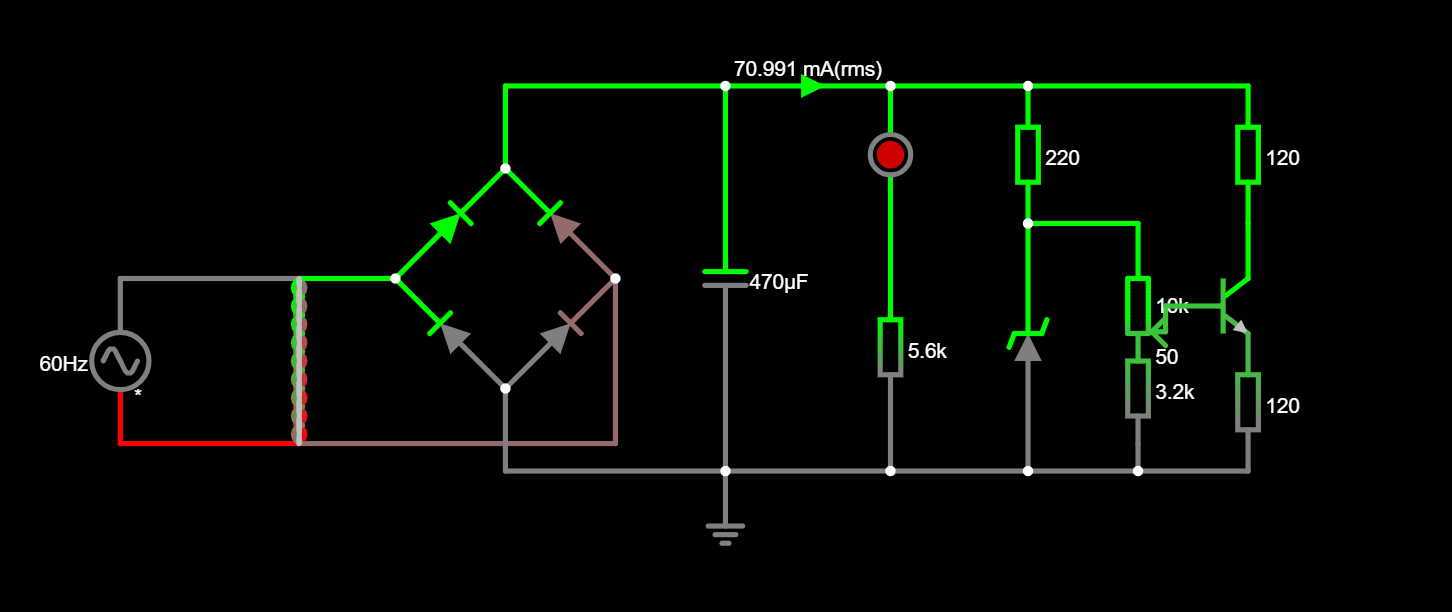
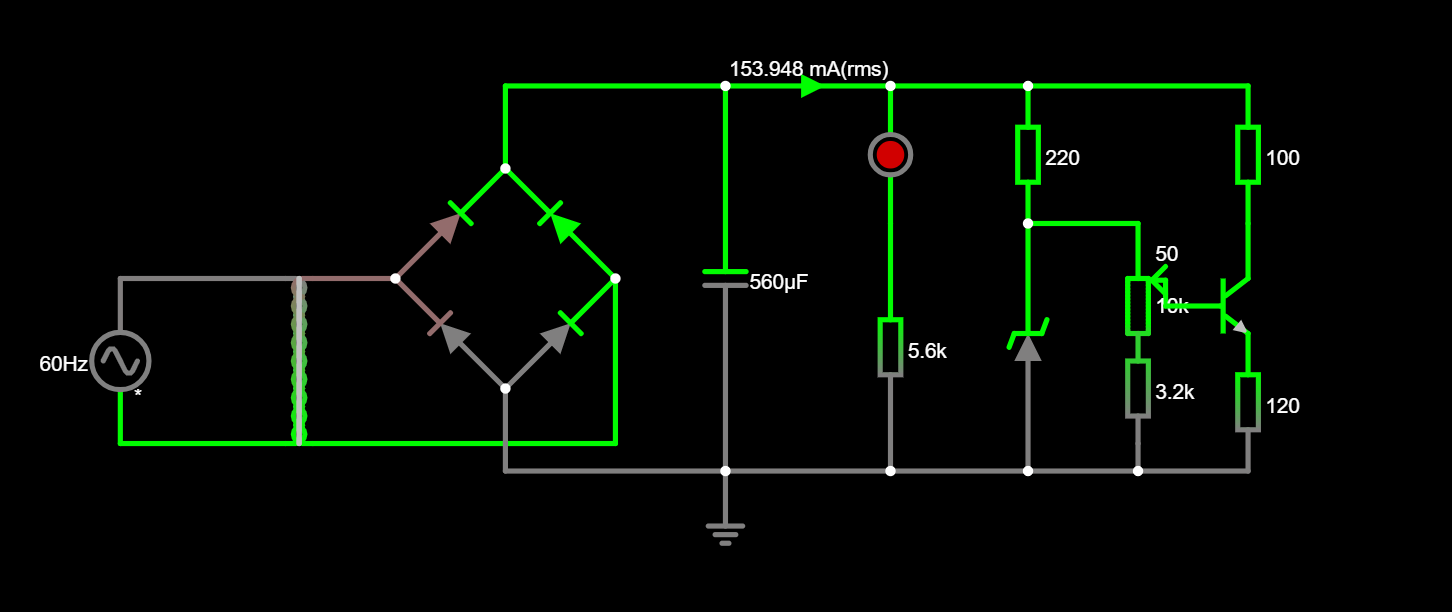
update

diff --git a/README.md b/README.md
@@ -9,11 +9,11 @@ Projeto de uma Fonte de Tensão ajustável entre 3V a 12V com capacidade de 100m
 | Quantidade | Componentes        | Valor Unit. (R$) |
 |------------|--------------------|------------------|
 | 4x         | Diodo 1N4007       |      R$ 0,19     |
-| 1          | Capacitor 470uF    |      R$ 2,72     |
+| 1          | Capacitor 560uF    |      R$ 2,72     |
 | 1          | Led Vermelho 5mm   |      R$ 0,49     |
-| 1          | Resistor 100Ω      |      R$ 0,07     |
 | 1          | Resistor 120Ω      |      R$ 0,07     |
-| 1          | Resistor 470Ω      |      R$ 0,07     |
+| 1          | Resistor 120Ω      |      R$ 0,07     |
+| 1          | Resistor 220Ω      |      R$ 0,07     |
 | 1          | Resistor 5.6kΩ     |      R$ 0,07     |
 | 1          | Resistor 3.2kΩ     |      R$ 0,07     |
 | 1          | Potenciómetro 10k  |      R$ 6,79     |
@@ -39,7 +39,7 @@ A protoboard e o transformador foi adquirida no laboratório com o orientador da
 <img src="./imagens/img_protoboard.jpeg">
 
 ### Vídeo no Youtube
-[Link nada suspeito](https://youtu.be/eNDYn4dvQzQ)
+[Link do vídeo]
 
 ## Cálculos
 ### Razão do Transformador
@@ -86,11 +86,11 @@ $$ i_{LED} = \frac{V_{máxs} - V_{LED}}{R_{LED}} = \frac{24,05V - 1,7V}{5600 \ \
 
 2. Corrente do diodo zener:
 
-$$ i_{zenner} = \frac{V_{máxs} - V_{zenner}}{R_{zenner}} = \frac{24,05V - 13V}{470 \ \Omega} \approx 23,51 \ mA $$
+$$ i_{zenner} = \frac{V_{máxs} - V_{zenner}}{R_{zenner}} = \frac{24,05V - 13V}{220 \ \Omega} \approx 50,22 \ mA $$
 
 3. Corrente do potenciômetro:
 
-$$ i_{potenciômetro} = \frac{V_{máxs}}{R_{potenciômetro}} = \frac{24,05V}{13670 \ \Omega} \approx 1,75 \ mA $$
+$$ i_{potenciômetro} = \frac{V_{máxs}}{R_{potenciômetro}} = \frac{24,05V}{13420 \ \Omega} \approx 1,79 \ mA $$
 
 4. Corrente da carga:
 
@@ -98,7 +98,7 @@ $$ i_{carga} = \frac{V_{zenner} - V_{transistor(be)}}{R_{carga}} = \frac{13V - 0
 
 Somando todas as correntes, obtemos a corrente total:
 
-$$ i_{TOTAL} = 3,99 \ mA + 23,51 \ mA + 1,75 \ mA + 102,38 / mA = 131,63 \ mA $$
+$$ i_{TOTAL} = 3,99 \ mA + 50,22 \ mA + 1,79 \ mA + 102,38 / mA = 158,38 \ mA $$
 
 ### Capacitância
 
@@ -107,9 +107,9 @@ $$ C = \frac{i_{TOTAL}}{f \cdot V_{ripple}} $$
 Onde:
 - f = 120Hz, pois a frequência de saída é o dobro da frequência de entrada devido à retificação em onda completa na ponte.
 
-$$ C = \frac{131,63 \ mA}{120 \ Hz \cdot 2,42 \ V} \approx 453,27 \ \mu F $$
+$$ C = \frac{158,38 \ mA}{120 \ Hz \cdot 2,42 \ V} \approx 545,38 \ \mu F $$
 
-O valor comercial mais próximo do valor teórico é 470 µF.
+O valor comercial mais próximo do valor teórico é 560 µF.
 
 ## Circuito no Falstad (simulador)
 
@@ -117,7 +117,7 @@ Imagem do circuito projetada no simulador Falstad.
 
 <img src="./imagens/img_falstad.png">
 
-[link do Falstad](https://tinyurl.com/2cn9rnxq)
+[link do Falstad](https://tinyurl.com/2dc3e5lk)
 
 ## Imagem esquemático da PCB
 <img src="./">
